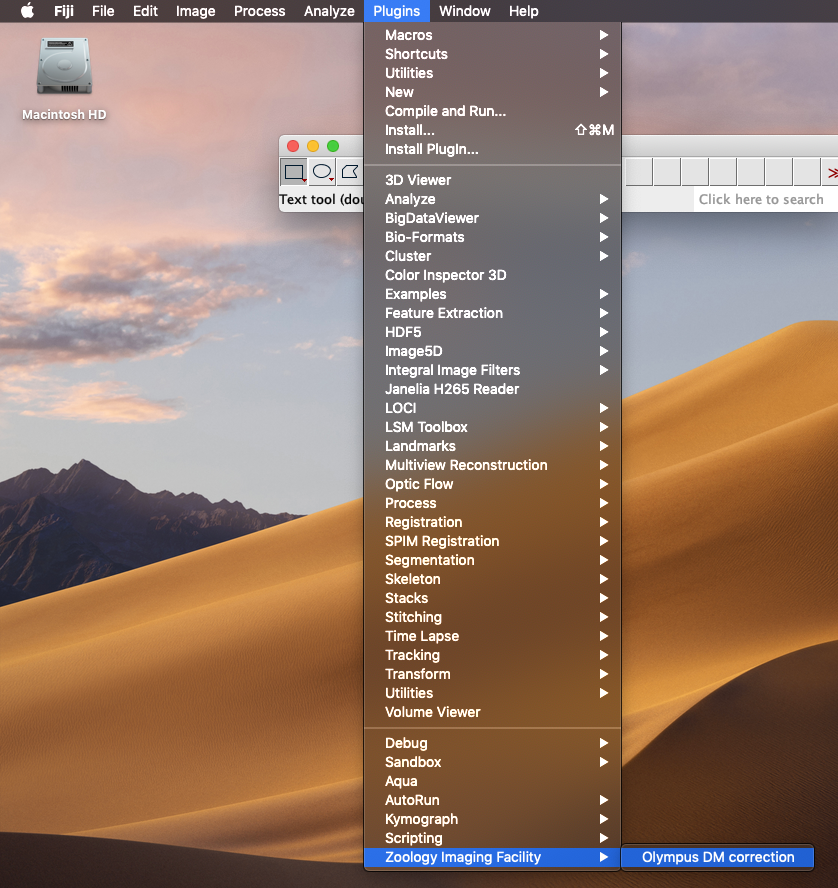
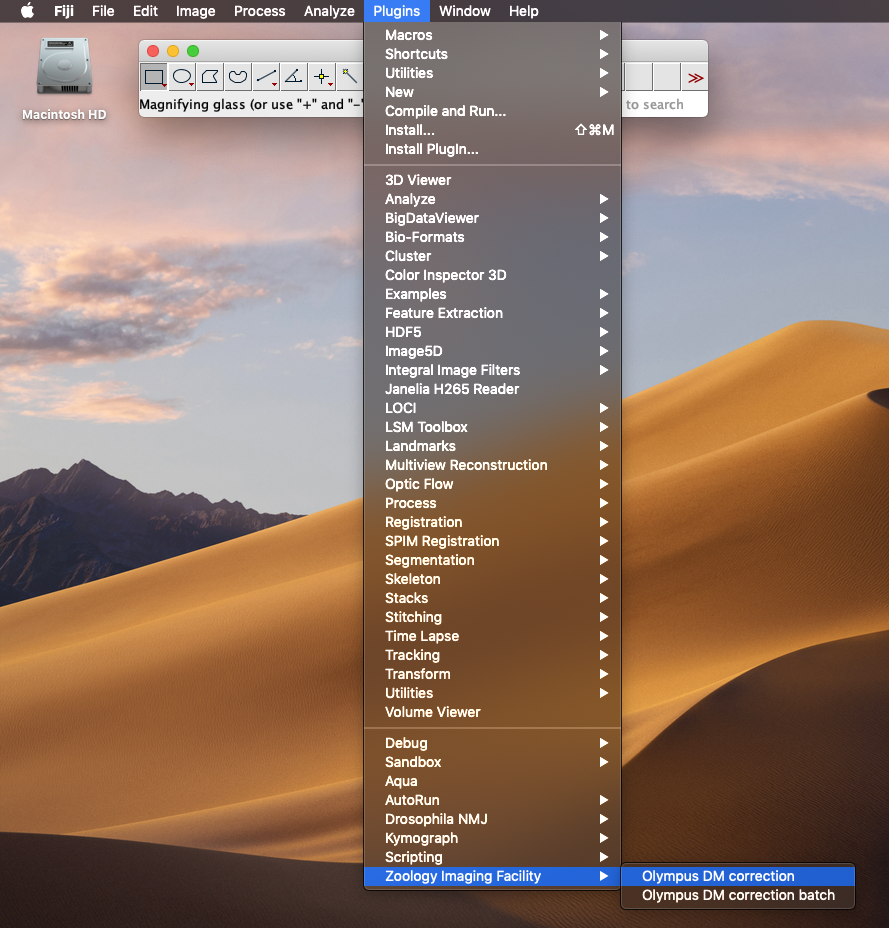
modified:   docs/img/plugin_menu_item.png 	modified:   fiji_plugins/zoo_img_fac_plugins.zip 	modified:   scripts/py/Olympus_DM_correction.py 	modified:   scripts/py/Olympus_DM_correction_batch.py

diff --git a/scripts/py/Olympus_DM_correction.py b/scripts/py/Olympus_DM_correction.py
@@ -1,5 +1,5 @@
 # Plugin to align images collected using different dichroic mirrors on the Olympus FV3000
-pluginVersion = "0.0.2"
+pluginVersion = "0.0.3"
 
 from ij import IJ 
 from ij.io import OpenDialog 
@@ -174,7 +174,7 @@ def processFile():
 	for i in range(numChannels):
 		dichroics.append(gdDM.getNextChoice())
 	merge = gdDM.getNextBoolean()
-	IJ.log("User selected dichroic mirrors")
+	IJ.log("\nUser selected dichroic mirrors")
 	for i in range(numChannels):
 		IJ.log("\t\tChannel " + str(i+1) + ": " + dichroics[i])	
 
@@ -194,6 +194,7 @@ def processFile():
 		if gdMerge.wasCanceled():
 			IJ.log("User canceled the dialog!\nImage processing canceled!\n")
 			return
+		IJ.log("\nUser selected channel colours")
 		mergeList = []
 		for i in range(len(colourChoices)):
 			ch = gdMerge.getNextChoice()
@@ -201,6 +202,7 @@ def processFile():
 				mergeList.append(None)
 			else:
 				mergeList.append(chDict[ch])
+				IJ.log("\t\t" + colourChoices[i] + ": " + ch)
 
 	# ask user for an output directory
 	dc = DirectoryChooser("Choose folder for output")  
@@ -213,16 +215,16 @@ def processFile():
 		tifDir = od + "." + str(datetime.now()).replace(" ", "") + "/"
 		if not os.path.exists(tifDir):
 			os.makedirs(tifDir)
-			IJ.log("Created temporary folder: " + tifDir)
+			IJ.log("\nCreated temporary folder: " + tifDir + "\n")
 		else:
 			IJ.log("Unable to create temporary folder!\n")
 	else:
 		tifDir = od + filenameExExt + "/"
 		if not os.path.exists(tifDir):
 			os.makedirs(tifDir)
-			IJ.log("Created subfolder: " + tifDir)
+			IJ.log("\nCreated subfolder: " + tifDir + "\n")
 		else:
-			IJ.log("Subfolder " + tifDir +  " already exists")
+			IJ.log("\nSubfolder " + tifDir +  " already exists")
 
 	# correct images
 	tifFilePaths = []

diff --git a/scripts/py/Olympus_DM_correction_batch.py b/scripts/py/Olympus_DM_correction_batch.py
@@ -1,5 +1,5 @@
 # Plugin to align images collected using different dichroic mirrors on the Olympus FV3000
-pluginVersion = "0.0.2"
+pluginVersion = "0.0.3"
 
 from ij import IJ 
 from ij.io import OpenDialog 
@@ -152,16 +152,16 @@ def processFile(filename, inDir, outDir, dichroics, mergeList):
 		tifDir = outDir + "." + str(datetime.now()).replace(" ", "") + "/"
 		if not os.path.exists(tifDir):
 			os.makedirs(tifDir)
-			IJ.log("Created temporary folder: " + tifDir)
+			IJ.log("\nCreated temporary folder: " + tifDir + "\n")
 		else:
 			IJ.log("Unable to create temporary folder!\n")
 	else:
 		tifDir = outDir + filenameExExt + "/"
 		if not os.path.exists(tifDir):
 			os.makedirs(tifDir)
-			IJ.log("Created subfolder: " + tifDir)
+			IJ.log("\nCreated subfolder: " + tifDir + "\n")
 		else:
-			IJ.log("Subfolder " + tifDir +  " already exists")
+			IJ.log("\nSubfolder " + tifDir +  " already exists.\n")
 
 	# correct images
 	tifFilePaths = []
@@ -284,6 +284,7 @@ def processDirectory():
 		if gdMerge.wasCanceled():
 			IJ.log("User canceled the dialog!\nImage processing canceled!\n")
 			return
+		IJ.log("User selected channel colours")
 		usersMergeList = []
 		for i in range(len(colourChoices)):
 			ch = gdMerge.getNextChoice()
@@ -291,6 +292,8 @@ def processDirectory():
 				usersMergeList.append(None)
 			else:
 				usersMergeList.append(chDict[ch])
+				IJ.log("\t\t" + colourChoices[i] + ": " + ch)
+		IJ.log("\n\n")
 
 	# ask user for an output directory
 	dc = DirectoryChooser("Choose folder for output")  
